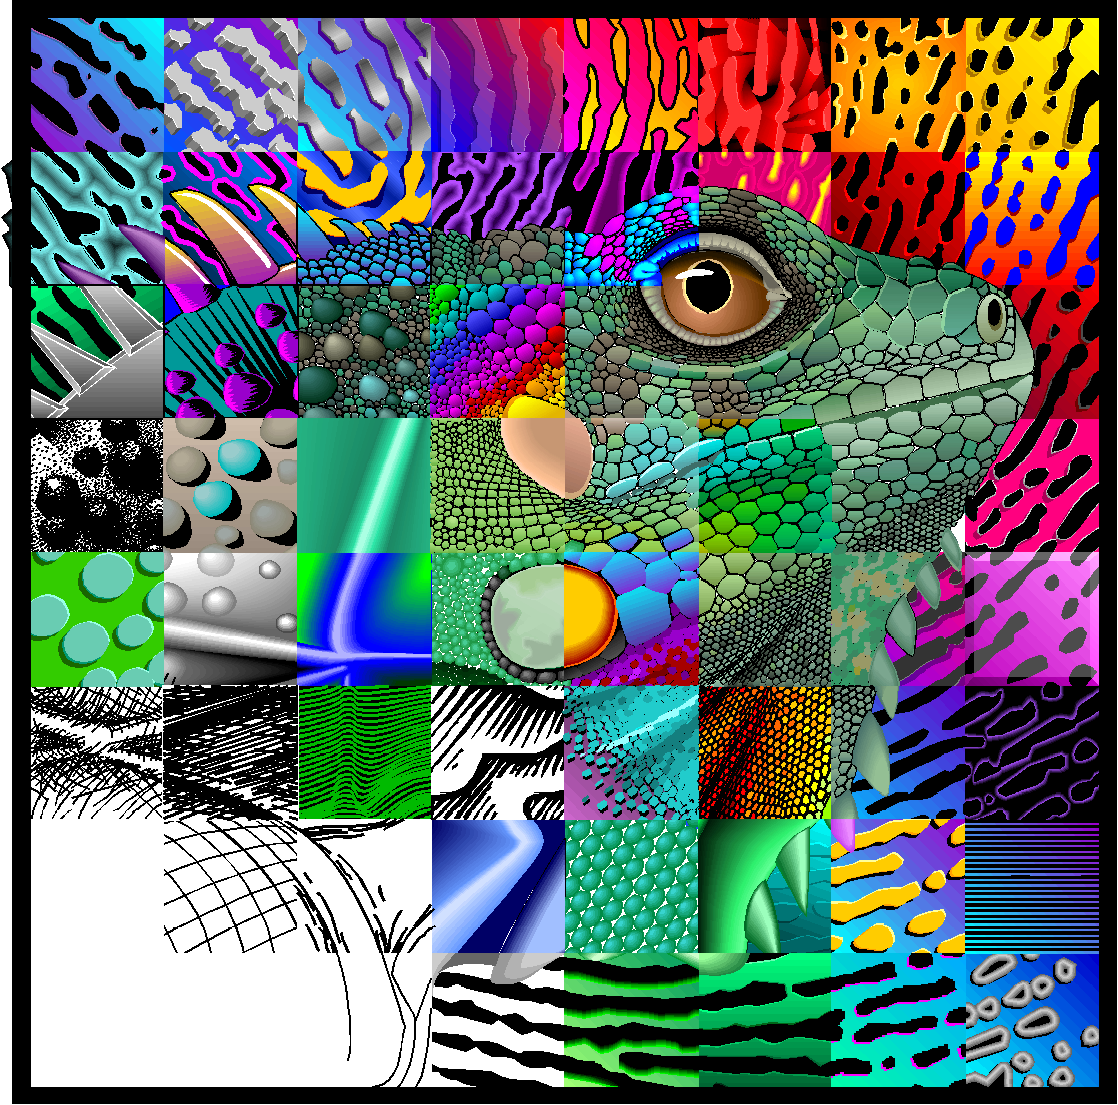
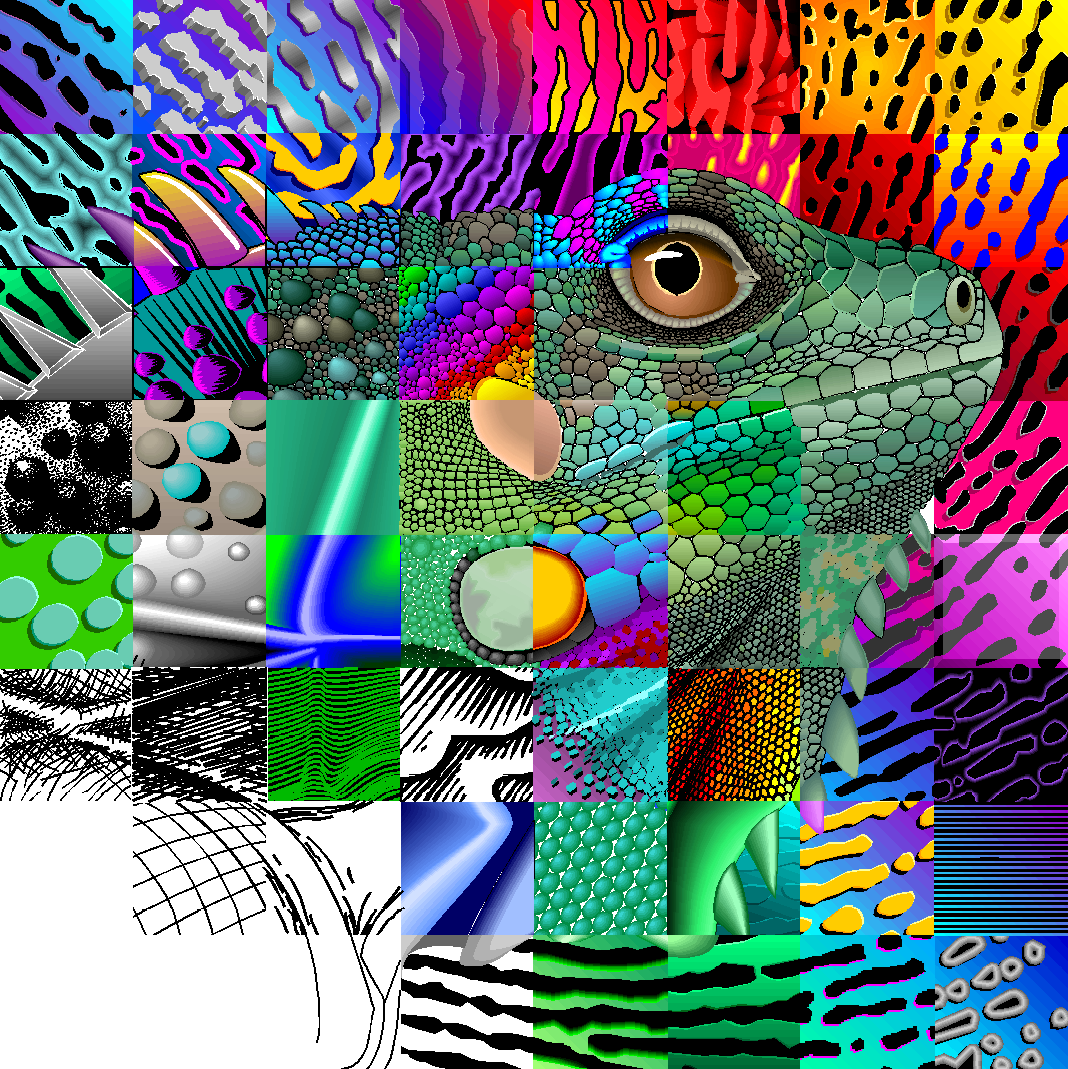
compressed image for faster page load

diff --git a/public/css/project.css b/public/css/project.css
@@ -44,7 +44,7 @@
     height: 100%;
     width: 100%;
     /* Background Image: https://youtu.be/33IinMVJf-M */
-    background-image: url('../img/test-image.png');
+    background-image: url('../img/test-image_512x512_MozJPEG.jpg');
     background-repeat: no-repeat;
     background-size: cover;
     background-position: center;
